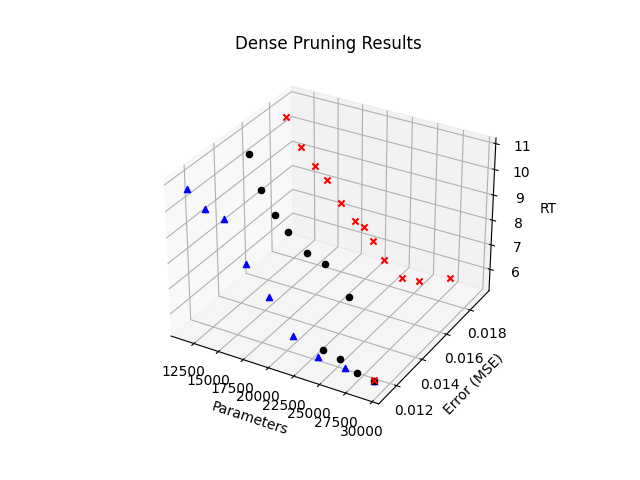
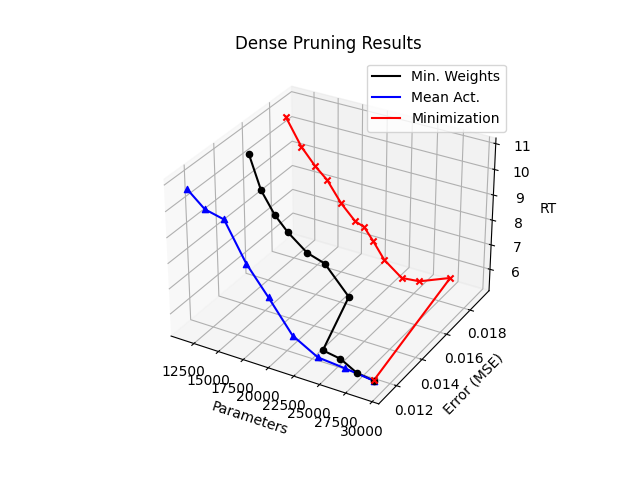
Plot updates

diff --git a/train/plot_results.py b/train/plot_results.py
@@ -12,31 +12,139 @@ mse = [0.01131, 0.01131, 0.01131, 0.01123, 0.01455, 0.01455, 0.01455, 0.01459, 0
 # rt = [7.443, 7.555, 7.781, 8.725, 6.360, 7.405, 7.626, 8.200, 8.726, 9.550, 10.827]
 rt = [5.505, 5.591, 5.942, 6.112, 6.360, 7.405, 7.626, 8.200, 8.726, 9.550, 10.827]
 
+count = 0
+ax.plot(params, mse, rt, color='k', label='Min. Weights')
 for p, err, rt in zip(params, mse, rt):
     ax.scatter(p, err, rt, marker='o', color='k')
+    print(f"    {count} & {p} & {err} & {rt} \\\\ \\hline")
+    count += 1
 
 # Dense Mean Activations
 params = [29313, 26540, 23967, 21525, 19214, 17092, 15007, 13129, 11444]
 mse = [0.01131, 0.01131, 0.01131, 0.01131, 0.01131, 0.01131, 0.01131, 0.01131, 0.01131]
 rt = [5.501, 5.626, 5.716, 6.262, 7.468, 8.522, 9.969, 10.145, 10.711]
 
+count = 0
+ax.plot(params, mse, rt, color='b', label='Mean Act.')
 for p, err, rt in zip(params, mse, rt):
     ax.scatter(p, err, rt, marker='^', color='b')
+    print(f"    {count} & {p} & {err} & {rt} \\\\ \\hline")
+    count += 1
 
 # Dense Minimization
 params = [29313, 27351, 25277, 23668, 21867, 20710, 19775, 18869, 17430, 15982, 14748, 13322, 11728]
 mse = [0.01131, 0.01909, 0.01822, 0.01806, 0.01806, 0.01806, 0.01806, 0.01806, 0.01805, 0.01805, 0.01805, 0.01805, 0.01805]
 rt = [5.509, 5.522, 5.545, 5.567, 6.105, 6.747, 7.215, 7.339, 7.916, 8.703, 9.130, 9.762, 10.790]
 
+count = 0
+ax.plot(params, mse, rt, color='r', label='Minimization')
 for p, err, rt in zip(params, mse, rt):
     ax.scatter(p, err, rt, marker='x', color='r')
+    print(f"    {count} & {p} & {err} & {rt} \\\\ \\hline")
+    count += 1
 
 ax.set_xlabel('Parameters')
 ax.set_ylabel('Error (MSE)')
 ax.set_zlabel('RT')
 ax.set_title("Dense Pruning Results")
+ax.legend()
 
 plt.savefig("dense_pruning_results.png")
 
 # %%
+fig = plt.figure()
+ax = fig.add_subplot(projection='3d')
 
+# Conv Min. Weights
+params = [30081, 28305, 26529, 24753, 22977, 21201, 18724, 15717, 13149, 11496]
+mse = [0.01067, 0.01032, 0.00953, 0.00981, 0.01097, 0.01735, 0.01804, 0.01804, 0.01813, 0.01796]
+rt = [3.737, 3.941, 4.515, 4.731, 5.189, 5.431, 6.036, 7.147, 8.239, 9.100]
+
+count = 0
+ax.plot(params, mse, rt, color='k', label='Min. Weights')
+for p, err, rt in zip(params, mse, rt):
+    ax.scatter(p, err, rt, marker='o', color='k')
+    print(f"    {count} & {p} & {err} & {rt} \\\\ \\hline")
+    count += 1
+
+# Conv Mean Activations
+params = [30081, 27815, 25348, 23588, 20701, 18467, 16575, 14721, 12622]
+mse = [0.01067, 0.01059, 0.01068, 0.01038, 0.01043, 0.01025, 0.01003, 0.01020, 0.01022]
+rt = [3.704, 4.136, 4.549, 4.918, 5.624, 6.402, 6.846, 7.509, 8.206]
+
+count = 0
+ax.plot(params, mse, rt, color='b', label='Mean Act.')
+for p, err, rt in zip(params, mse, rt):
+    ax.scatter(p, err, rt, marker='^', color='b')
+    print(f"    {count} & {p} & {err} & {rt} \\\\ \\hline")
+    count += 1
+
+# Conv Minimization
+params = [30081, 27244, 24385, 22403, 20271, 18516, 16195, 14472, 12384]
+mse = [0.01067, 0.01400, 0.03651, 0.04666, 0.04543, 0.04211, 0.04289, 0.04161, 0.04166]
+rt = [3.505, 3.926, 4.424, 4.967, 5.560, 5.917, 6.524, 7.497, 8.505]
+
+count = 0
+ax.plot(params, mse, rt, color='r', label='Minimization')
+for p, err, rt in zip(params, mse, rt):
+    ax.scatter(p, err, rt, marker='x', color='r')
+    print(f"    {count} & {p} & {err} & {rt} \\\\ \\hline")
+    count += 1
+
+ax.set_xlabel('Parameters')
+ax.set_ylabel('Error (MSE)')
+ax.set_zlabel('RT')
+ax.set_title("Conv. Pruning Results")
+ax.legend()
+
+plt.savefig("conv_pruning_results.png")
+
+# %%
+fig = plt.figure()
+ax = fig.add_subplot(projection='3d')
+
+# LSTM Min. Weights
+params = [28981, 26321, 23789, 21385, 19109, 16961, 14941, 13049, 11285]
+mse = [0.00711, 0.01533, 0.03911, 0.04389, 0.07513, 0.06982, 0.06532, 0.06397, 0.07459]
+rt = [7.157, 8.126, 8.593, 9.737, 10.462, 11.738, 12.675, 14.281, 16.443]
+
+count = 0
+ax.plot(params, mse, rt, color='k', label='Min. Weights')
+for p, err, rt in zip(params, mse, rt):
+    ax.scatter(p, err, rt, marker='o', color='k')
+    print(f"    {count} & {p} & {err} & {rt} \\\\ \\hline")
+    count += 1
+
+# LSTM Mean Activations
+params = [28981, 26321, 23789, 21385, 19109, 16961, 14941, 13049, 11285]
+mse = [0.00711, 0.00712, 0.00767, 0.01305, 0.01332, 0.01485, 0.01926, 0.01975, 0.02015]
+rt = [7.228, 8.110, 8.547, 9.699, 10.409, 11.836, 12.944, 14.859, 16.583]
+
+count = 0
+ax.plot(params, mse, rt, color='b', label='Mean Act.')
+for p, err, rt in zip(params, mse, rt):
+    ax.scatter(p, err, rt, marker='^', color='b')
+    print(f"    {count} & {p} & {err} & {rt} \\\\ \\hline")
+    count += 1
+
+# LSTM Minimization
+params = [28981, 26321, 23789, 21385, 19109, 16961, 14941, 13049, 11285]
+mse = [0.00711, 0.00697, 0.00768, 0.01043, 0.01553, 0.02066, 0.01705, 0.01640, 0.01729]
+rt = [7.233, 8.147, 8.642, 9.799, 10.499, 11.935, 12.952, 14.892, 16.604]
+
+count = 0
+ax.plot(params, mse, rt, color='r', label='Minimization')
+for p, err, rt in zip(params, mse, rt):
+    ax.scatter(p, err, rt, marker='x', color='r')
+    print(f"    {count} & {p} & {err} & {rt} \\\\ \\hline")
+    count += 1
+
+ax.set_xlabel('Parameters')
+ax.set_ylabel('Error (MSE)')
+ax.set_zlabel('RT')
+ax.set_title("LSTM Pruning Results")
+ax.legend()
+
+plt.savefig("lstm_pruning_results.png")
+
+# %%
